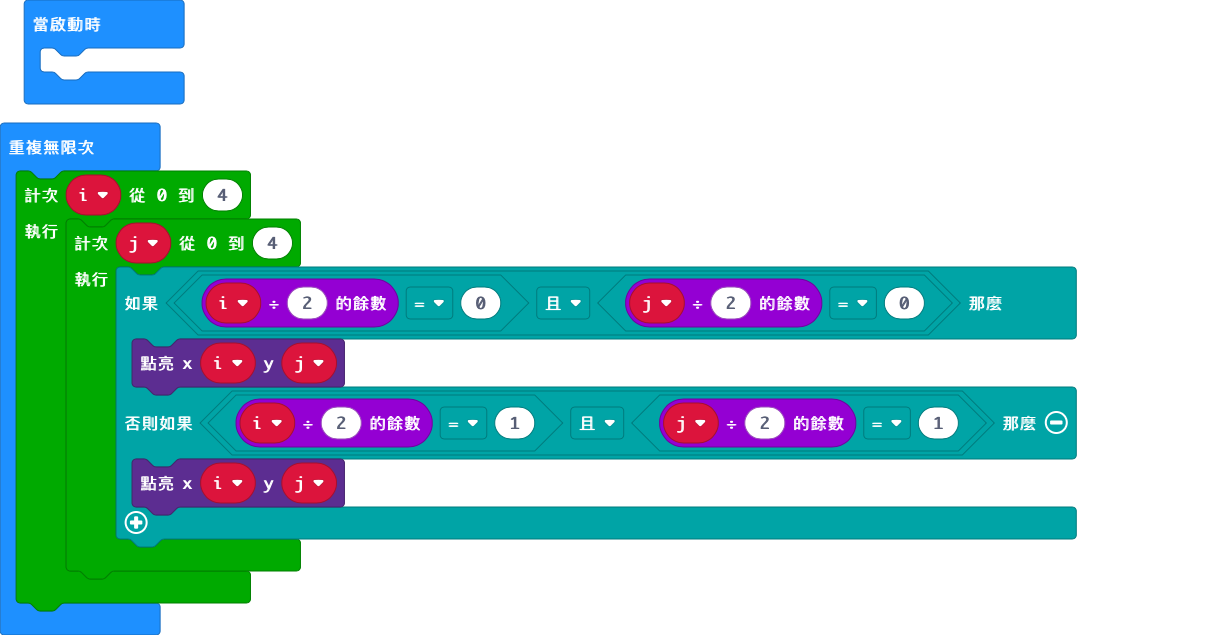
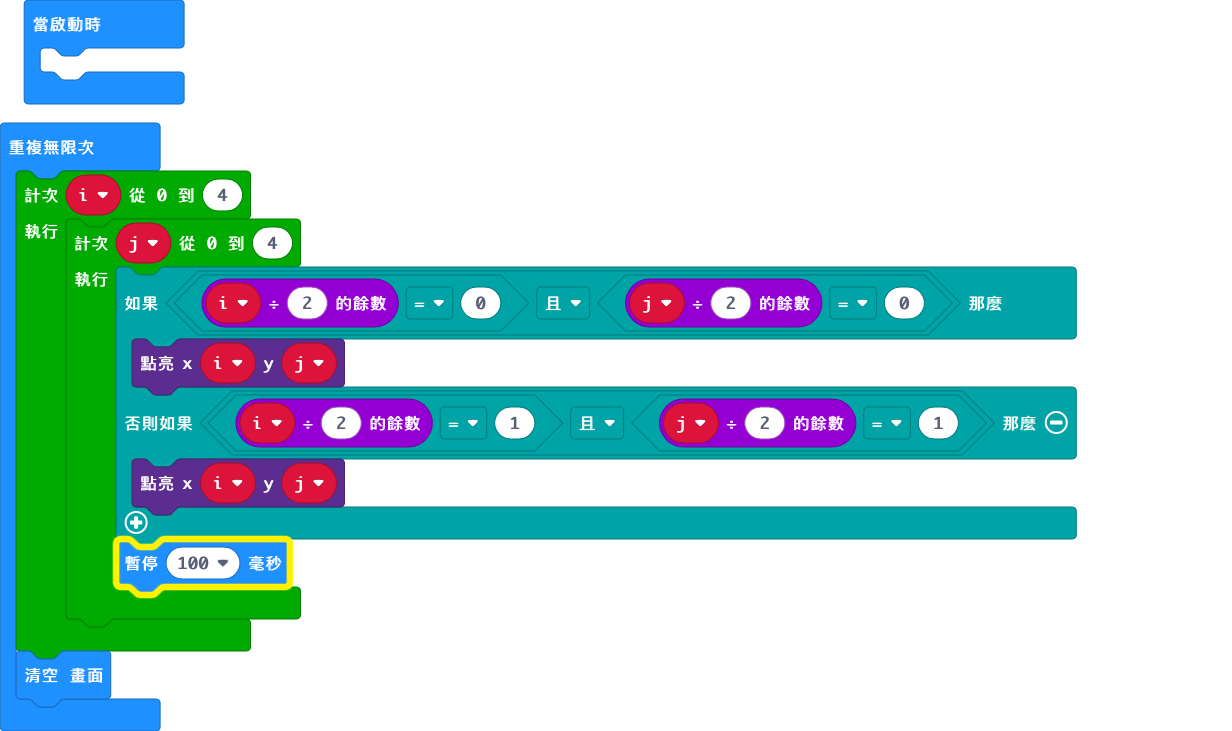
Update main.blocks, main.ts

diff --git a/main.ts b/main.ts
@@ -6,6 +6,8 @@ basic.forever(function () {
             } else if (i % 2 == 1 && j % 2 == 1) {
                 led.plot(i, j)
             }
+            basic.pause(100)
         }
     }
+    basic.clearScreen()
 })
